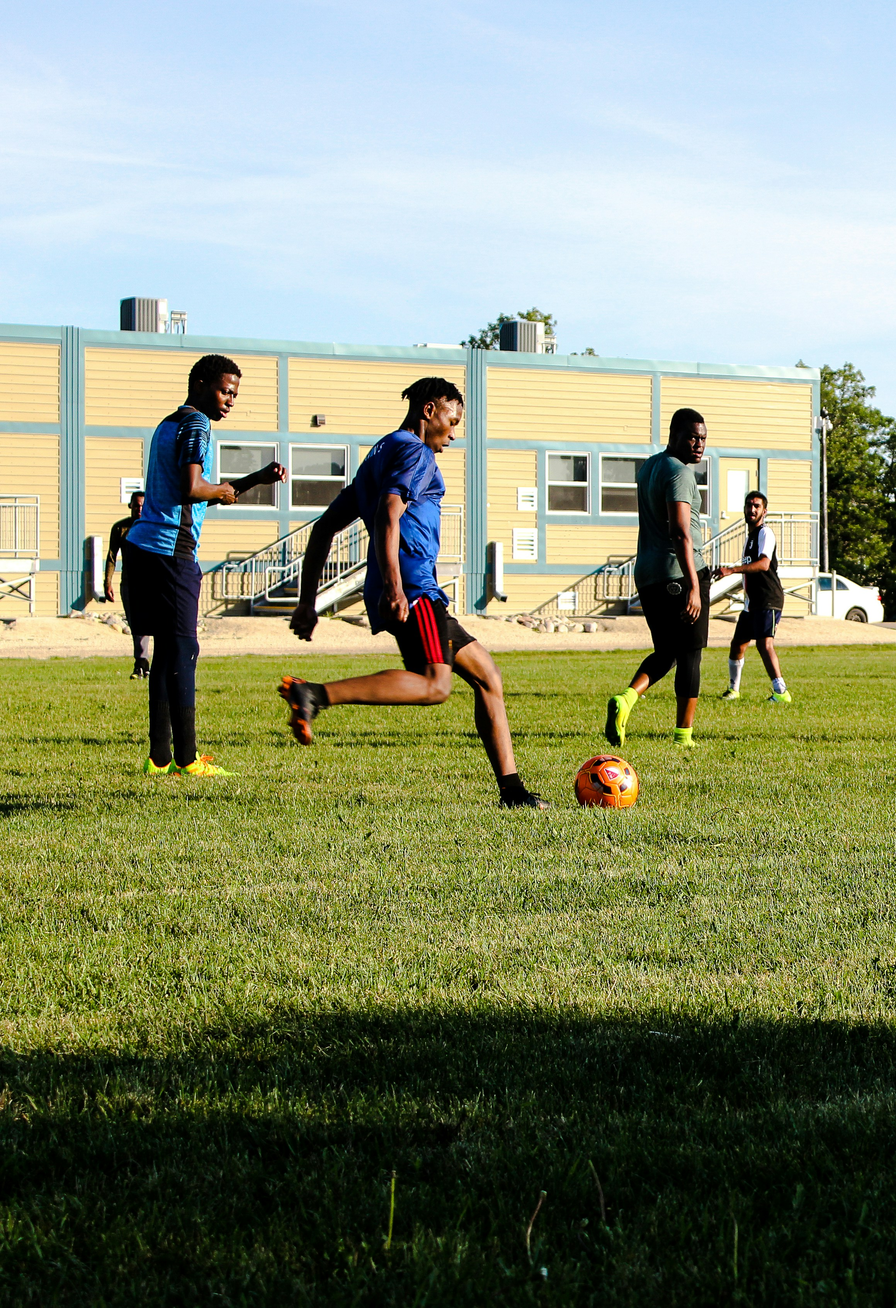
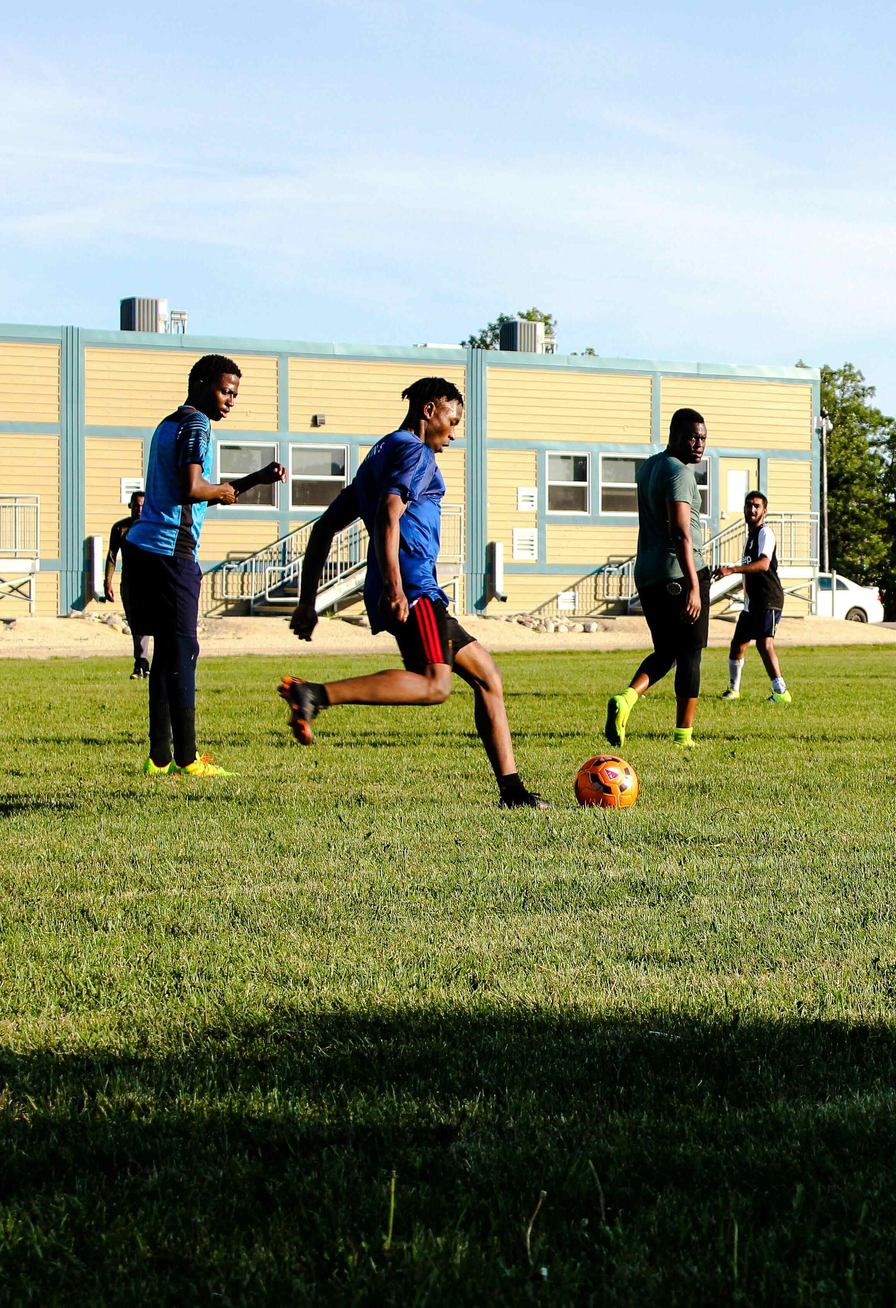
Updated images to fix slow laoding

Changed region(s): [[0.0, 0.5585, 1.0, 0.8067], [0.2173, 0.3103, 0.2484, 0.3723], [0.4657, 0.4344, 0.4968, 0.4654]]

diff --git a/src/App.tsx b/src/App.tsx
@@ -442,14 +442,14 @@ function App() {
 											<div className="s-scroll" ref={storiesScrollRef}>
 												{[
 													{
-														img: "https://images.unsplash.com/photo-1531123897727-8f129e1688ce?w=600&q=85&fit=crop&crop=top",
+														img: "/images/portrait_school_1.jpg",
 														country: "Nigeria → United Kingdom",
 														name: "Amaka O.",
 														school: "Eton College · Full Scholarship",
 														tag: "Class of 2023",
 													},
 													{
-														img: "/images/ghanaian_man.jpg",
+														img: "/images/ghanaian_man_2.jpg",
 														country: "Ghana → United States",
 														name: "Kofi A.",
 														school: "Phillips Exeter Academy",

diff --git a/src/pages/HighSchoolPlacement.tsx b/src/pages/HighSchoolPlacement.tsx
@@ -668,7 +668,7 @@ function HighSchoolPlacement() {
 							<div className="t-mini-f">
 								<div className="t-mini-av">
 									<OptimizedImage
-										src="https://images.unsplash.com/photo-1531123897727-8f129e1688ce?w=120&q=85&fit=crop&crop=face"
+										src="/images/portrait_school_1.jpg"
 										alt="Student"
 									/>
 								</div>
